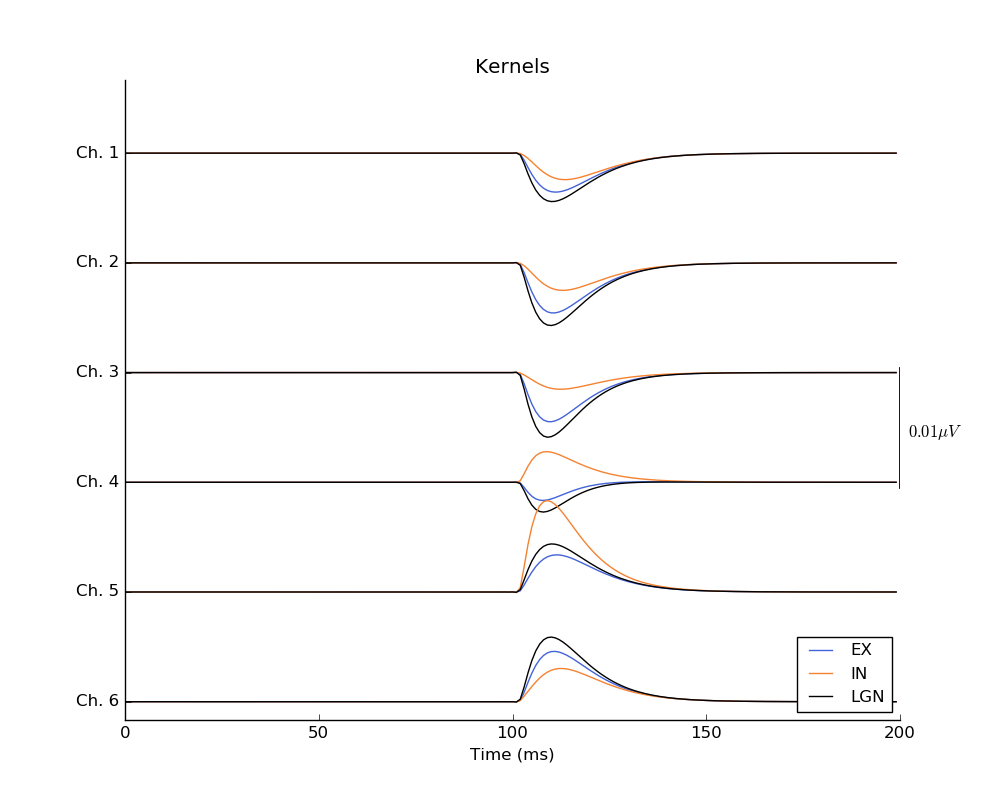
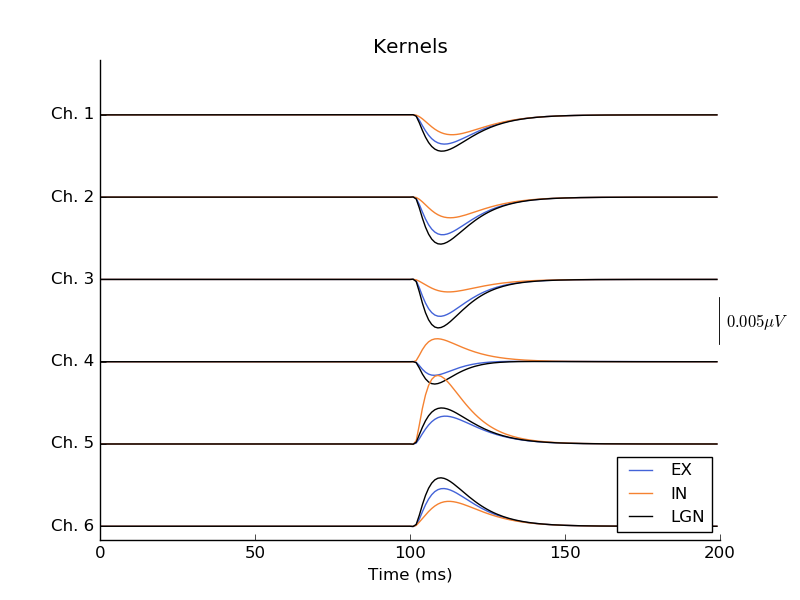
jobscript

diff --git a/simulation/plot_kernels.py b/simulation/plot_kernels.py
@@ -51,7 +51,7 @@ def Plot_kernels(network_parameters, ax=0):
     if scalebar:
         posx = time[-1]
         posy = 3.5*space
-        barlength = 0.01  # uV
+        barlength = 0.005  # uV
         line = barlength/scale * 1/1000. # barlength uV
 
         ax.plot([posx,posx],[posy-line/2, posy+line/2], color="k", linewidth=2)

diff --git a/simulation/main.py b/simulation/main.py
@@ -35,7 +35,7 @@ if make_kernels:
     Create_kernels(network_parameters)
 Plot_kernels(network_parameters)
 #Run_simulation([1.], [0.], network_parameters, 1)  # single run, no input
-
+exit("gg")
 
 ##############################
 # Sinisoidal input from LGN: #
